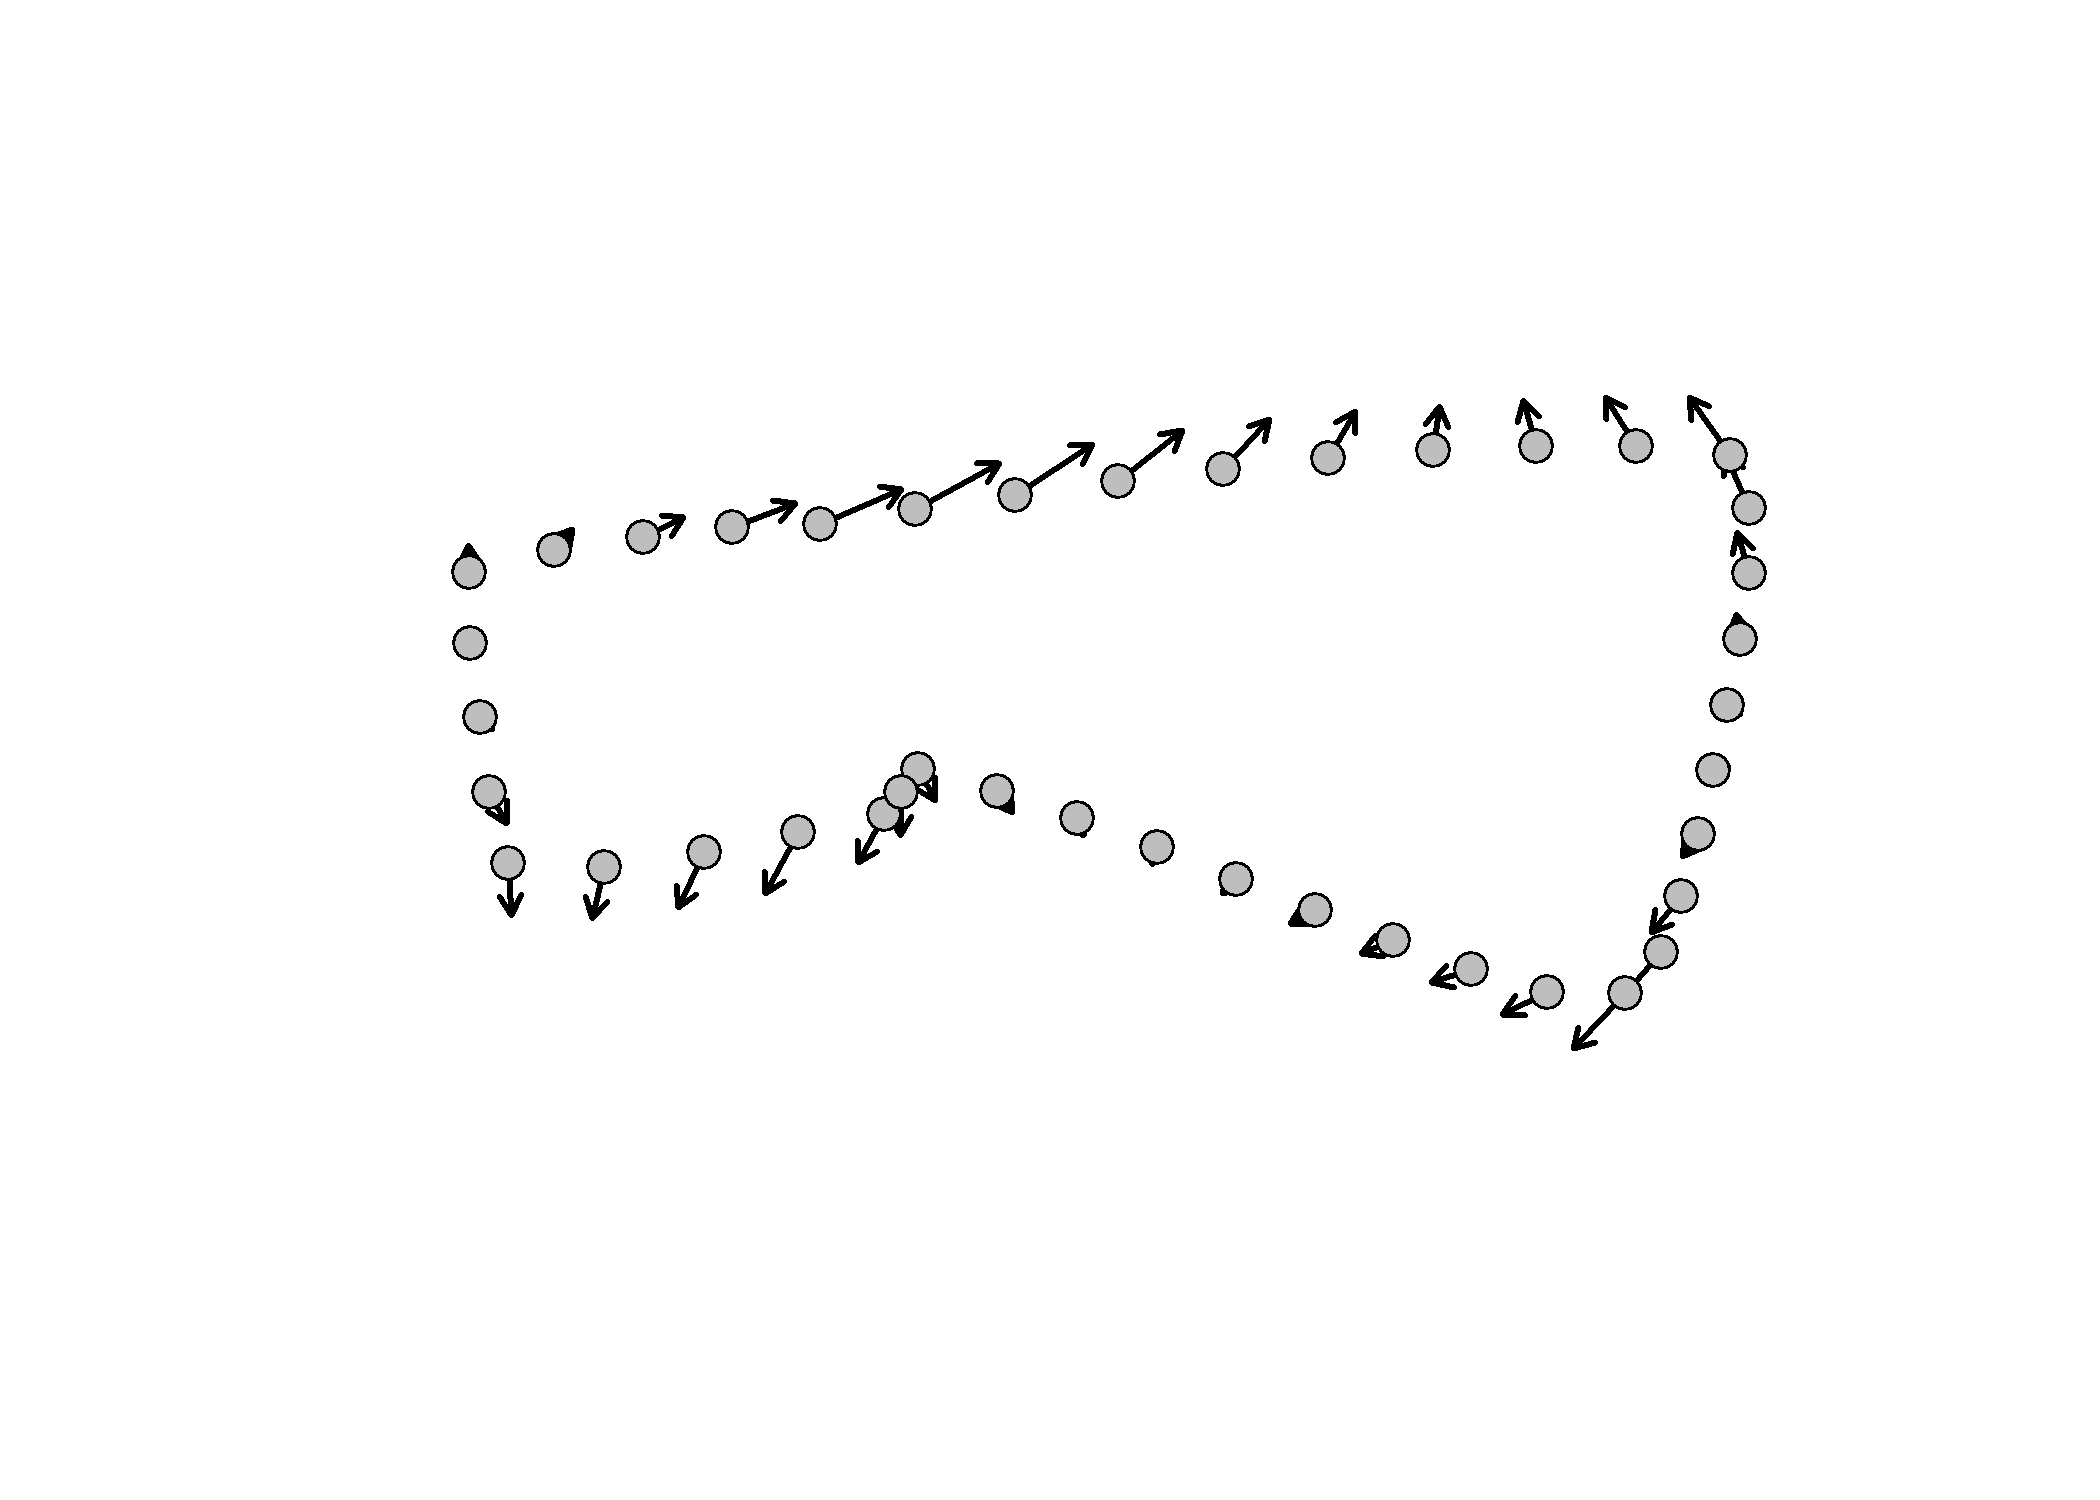
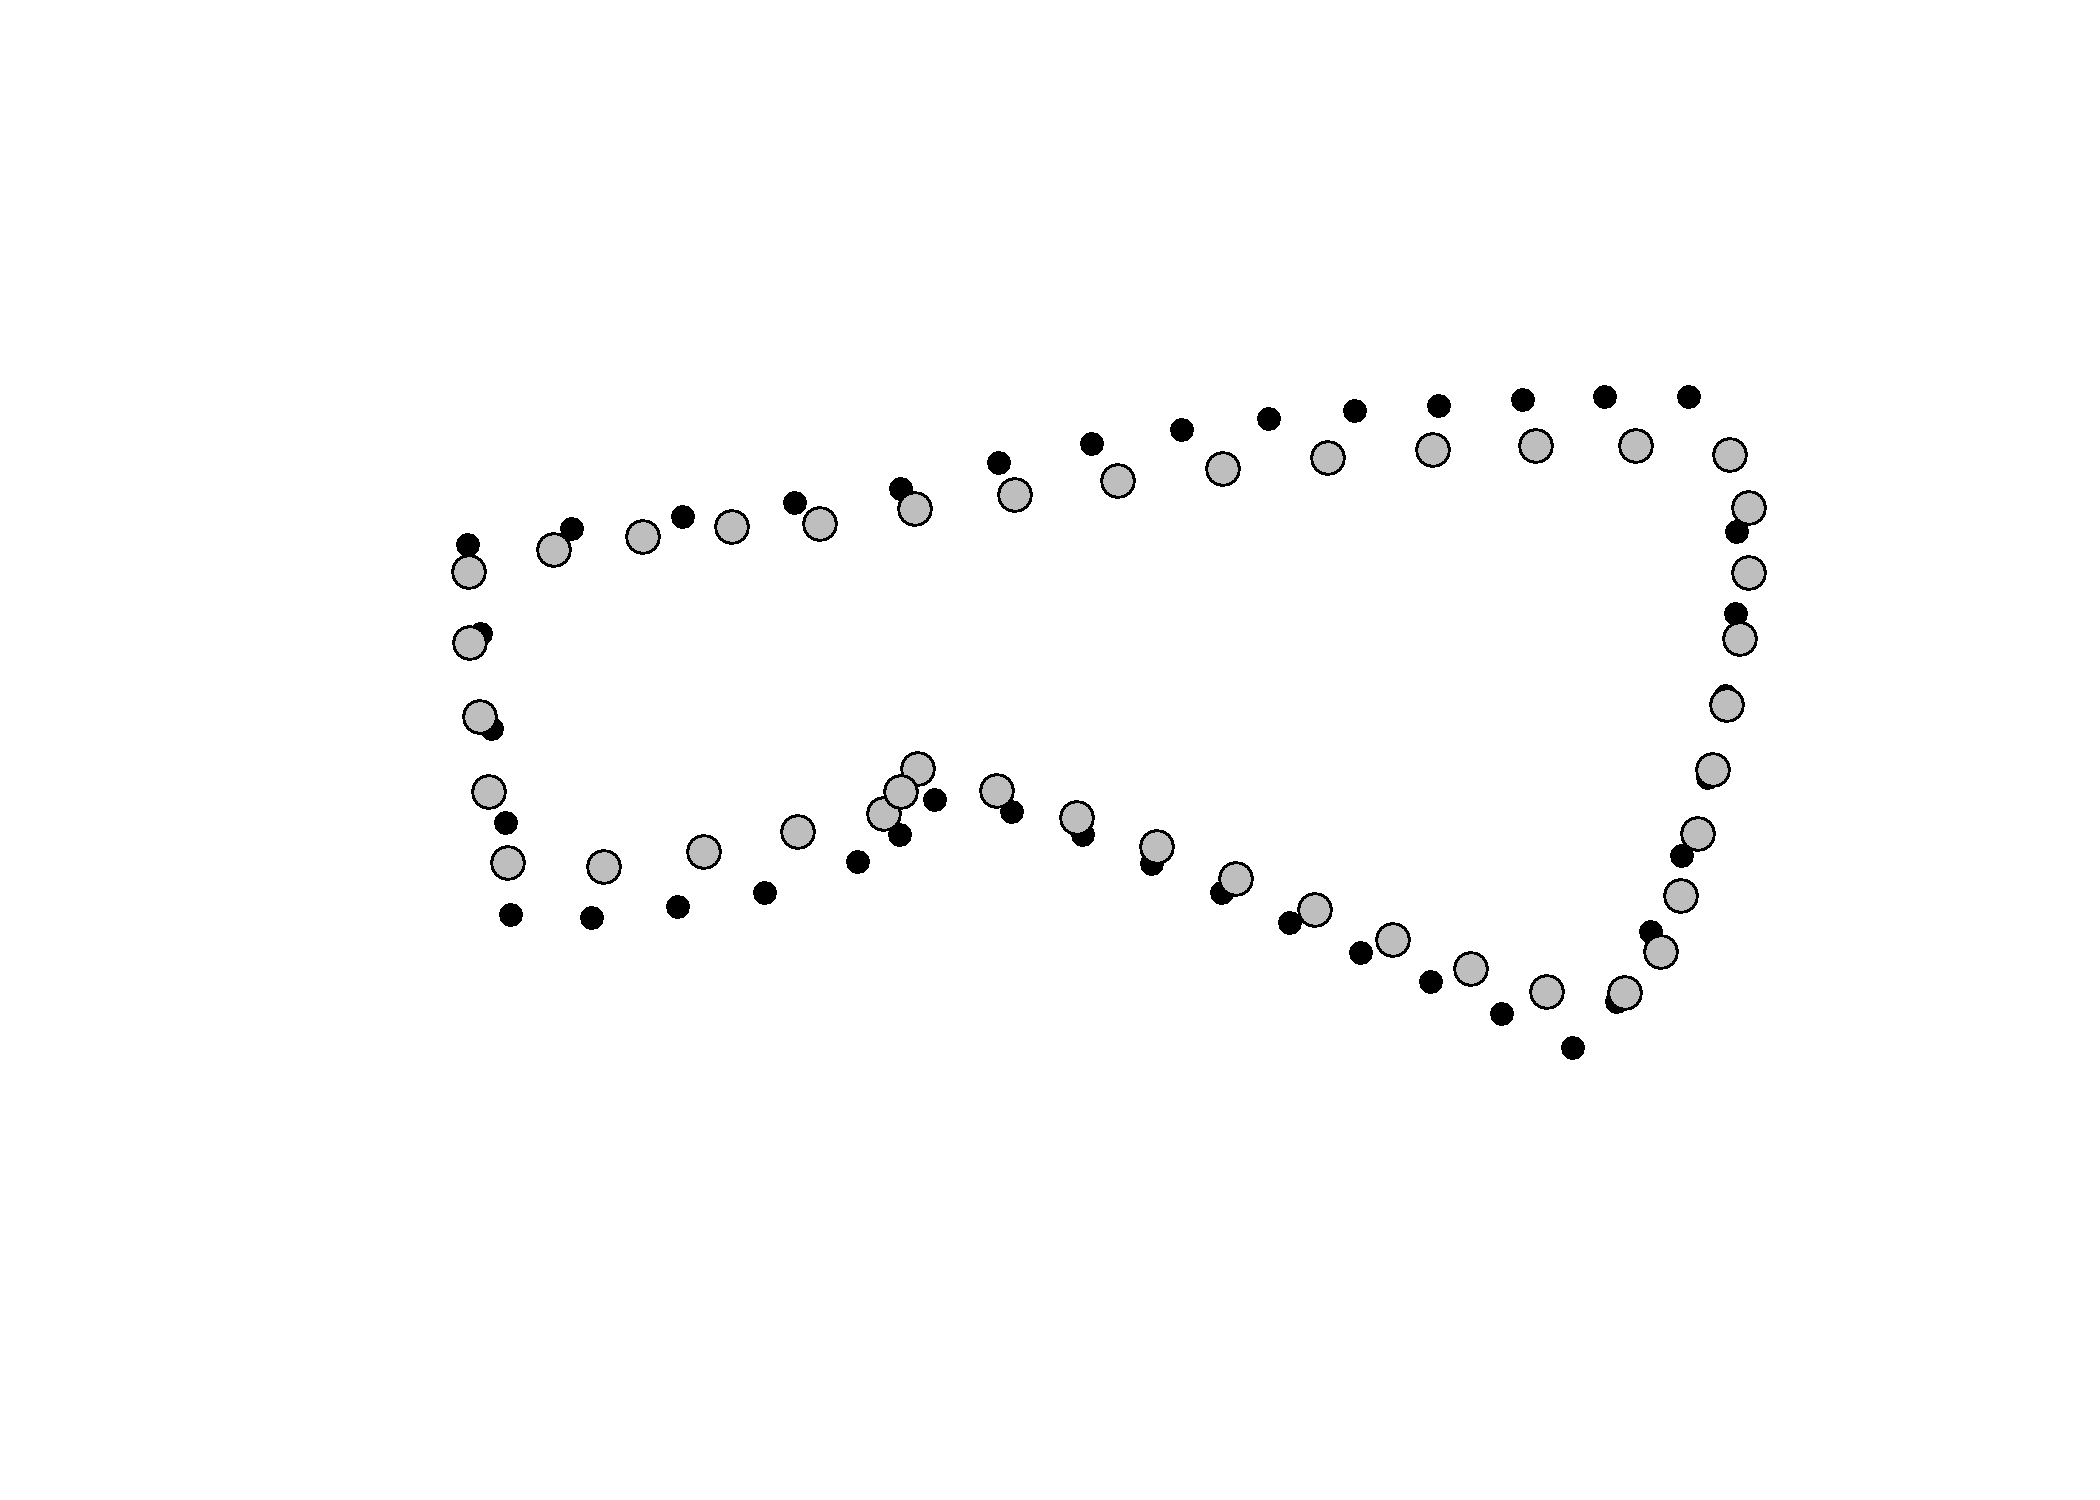
<init colophon>

diff --git a/fta2dgm.md b/fta2dgm.md
@@ -1,13 +1,14 @@
-Supplementary materials for paper: French trade axe morphology differs
-by makers’ mark: A preliminary analysis
+Supplementary materials for paper: French trade axes from the La Belle
+shipwreck demonstrate significant morphological differences by makers’
+mark
 ================
 Robert Z. Selden, Jr.
-02 February, 2021
+19 February, 2021
 
 ## Load packages
 
 ``` r
-# devtools::install_github("geomorphR/geomorph", ref = "Stable", build_vignettes = TRUE)
+#devtools::install_github("geomorphR/geomorph", ref = "Stable", build_vignettes = TRUE)
 library(here)
 ```
 
@@ -41,12 +42,12 @@ library(tidyverse)
 library(wesanderson)
 ```
 
-## Generalized Procrustes Analysis
+## Generalised Procrustes Analysis
 
 Landmark data were aligned to a global coordinate system (Kendall 1981,
-1984; Slice 2001), achieved through generalized Procrustes
-superimposition (Rohlf and Slice 1990) performed in R 4.0.2 (R Core
-Development Team, 2020) using the `geomorph` library v. 3.3.1 (Adams et
+1984; Slice 2001), achieved through generalised Procrustes
+superimposition (Rohlf and Slice 1990) performed in R 4.0.4 (R Core
+Development Team, 2020) using the `geomorph` library v. 3.3.2 (Adams et
 al. 2017; Adams and Otárola-Castillo 2013). Procrustes superimposition
 translates, scales, and rotates the coordinate data to allow for
 comparisons among objects (Gower 1975; Rohlf and Slice 1990). The
@@ -175,17 +176,17 @@ knitr::include_graphics('./figures/pca.warp.jpg')
 
 ## Test hypothesis
 
-*Hypothesis: There are morphological differences in French trade axes
-that bear an asterisk or DG makers’ marks.*
+*Hypothesis: There are morphological differences between French trade
+axes that bear an asterisk or DG makers’ marks.*
 
 ``` r
-## size as a function of mark ----
+# size as a function of mark ----
 fit.size.mark <- procD.lm(size ~ mark, 
                           data = gdf, 
                           print.progress = FALSE, 
                           iter = 9999)
 
-# differences in size by mark?
+## differences in size by mark?
 anova(fit.size.mark)
 ```
 
@@ -207,7 +208,7 @@ anova(fit.size.mark)
     ## Call: procD.lm(f1 = size ~ mark, iter = 9999, data = gdf, print.progress = FALSE)
 
 ``` r
-## shape as a function of mark ----
+# shape as a function of mark ----
 fit.shape.mark <- procD.lm(shape ~ mark, 
                            data = gdf, 
                            print.progress = FALSE, 
@@ -234,6 +235,44 @@ anova(fit.shape.mark)
     ## 
     ## Call: procD.lm(f1 = shape ~ mark, iter = 9999, data = gdf, print.progress = FALSE)
 
+### Morphological disparity
+
+``` r
+# does one of the groups display greater shape variation among individuals 
+# relative to the other group?
+morphol.disparity(shape ~ mark, 
+                  groups = qdata$mark, 
+                  data = gdf, 
+                  print.progress = FALSE, 
+                  iter = 9999)
+```
+
+    ## 
+    ## Call:
+    ## morphol.disparity(f1 = shape ~ mark, groups = qdata$mark, iter = 9999,  
+    ##     data = gdf, print.progress = FALSE) 
+    ## 
+    ## 
+    ## 
+    ## Randomized Residual Permutation Procedure Used
+    ## 10000 Permutations
+    ## 
+    ## Procrustes variances for defined groups
+    ##     asterisk           DG 
+    ## 0.0007308991 0.0019748264 
+    ## 
+    ## 
+    ## Pairwise absolute differences between variances
+    ##             asterisk          DG
+    ## asterisk 0.000000000 0.001243927
+    ## DG       0.001243927 0.000000000
+    ## 
+    ## 
+    ## P-Values
+    ##          asterisk     DG
+    ## asterisk   1.0000 0.0242
+    ## DG         0.0242 1.0000
+
 ### Mean shapes
 
 ``` r
@@ -250,26 +289,168 @@ names(new.coords)
 mean <- lapply(new.coords, mshape)
 
 # plot mean shapes
-plot(mean$asterisk) # mean shape of axe with asterisk mark
+plot(mean$asterisk) # mean shape for axes with asterisk mark
 ```
 
 <img src="fta2dgm_files/figure-gfm/def.mod.2-1.png" width="100%" />
 
 ``` r
-plot(mean$DG) # mean shape of axe with DG mark
+plot(mean$DG) # mean shape for axes with DG mark
 ```
 
 <img src="fta2dgm_files/figure-gfm/def.mod.2-2.png" width="100%" />
 
 ``` r
-# comparison plot of asterisk (gray) vs DG (linear vector)
+# comparison plot of French trade axes bearing asterisk (gray) 
+# and DG (black) marks
 plotRefToTarget(mean$asterisk, 
                 mean$DG, 
-                method = "vector",
+                method = "point",
                 mag = 2)
 ```
 
 <img src="fta2dgm_files/figure-gfm/def.mod.2-3.png" width="100%" />
+
+### Colophon
+
+This version of the analysis was generated on 2021-02-19 02:49:16 using
+the following computational environment and dependencies:
+
+``` r
+# what R packages and versions were used?
+if ("devtools" %in% installed.packages()) devtools::session_info()
+```
+
+    ## - Session info ---------------------------------------------------------------
+    ##  setting  value                       
+    ##  version  R version 4.0.4 (2021-02-15)
+    ##  os       Windows 10 x64              
+    ##  system   x86_64, mingw32             
+    ##  ui       RTerm                       
+    ##  language (EN)                        
+    ##  collate  English_United States.1252  
+    ##  ctype    English_United States.1252  
+    ##  tz       America/Chicago             
+    ##  date     2021-02-19                  
+    ## 
+    ## - Packages -------------------------------------------------------------------
+    ##  package          * version  date       lib source                             
+    ##  ape                5.4-1    2020-08-13 [1] CRAN (R 4.0.2)                     
+    ##  assertthat         0.2.1    2019-03-21 [1] CRAN (R 4.0.2)                     
+    ##  backports          1.2.1    2020-12-09 [1] CRAN (R 4.0.3)                     
+    ##  bezier             1.1.2    2018-12-14 [1] CRAN (R 4.0.3)                     
+    ##  brew               1.0-6    2011-04-13 [1] CRAN (R 4.0.0)                     
+    ##  broom              0.7.4    2021-01-29 [1] CRAN (R 4.0.3)                     
+    ##  cachem             1.0.3    2021-02-04 [1] CRAN (R 4.0.3)                     
+    ##  callr              3.5.1    2020-10-13 [1] CRAN (R 4.0.3)                     
+    ##  cellranger         1.1.0    2016-07-27 [1] CRAN (R 4.0.2)                     
+    ##  cli                2.3.0    2021-01-31 [1] CRAN (R 4.0.3)                     
+    ##  colorspace         2.0-0    2020-11-11 [1] CRAN (R 4.0.3)                     
+    ##  crayon             1.4.1    2021-02-08 [1] CRAN (R 4.0.3)                     
+    ##  crosstalk          1.1.1    2021-01-12 [1] CRAN (R 4.0.3)                     
+    ##  DBI                1.1.1    2021-01-15 [1] CRAN (R 4.0.3)                     
+    ##  dbplyr             2.1.0    2021-02-03 [1] CRAN (R 4.0.3)                     
+    ##  desc               1.2.0    2018-05-01 [1] CRAN (R 4.0.2)                     
+    ##  devtools           2.3.2    2020-09-18 [1] CRAN (R 4.0.2)                     
+    ##  digest             0.6.27   2020-10-24 [1] CRAN (R 4.0.3)                     
+    ##  dplyr            * 1.0.4    2021-02-02 [1] CRAN (R 4.0.3)                     
+    ##  ellipsis           0.3.1    2020-05-15 [1] CRAN (R 4.0.2)                     
+    ##  evaluate           0.14     2019-05-28 [1] CRAN (R 4.0.2)                     
+    ##  farver             2.0.3    2020-01-16 [1] CRAN (R 4.0.2)                     
+    ##  fastmap            1.1.0    2021-01-25 [1] CRAN (R 4.0.3)                     
+    ##  forcats          * 0.5.1    2021-01-27 [1] CRAN (R 4.0.3)                     
+    ##  fs                 1.5.0    2020-07-31 [1] CRAN (R 4.0.2)                     
+    ##  generics           0.1.0    2020-10-31 [1] CRAN (R 4.0.3)                     
+    ##  geomorph         * 3.3.2    2021-01-23 [1] Github (geomorphR/geomorph@788ab5b)
+    ##  ggplot2          * 3.3.3    2020-12-30 [1] CRAN (R 4.0.3)                     
+    ##  glue               1.4.2    2020-08-27 [1] CRAN (R 4.0.2)                     
+    ##  gtable             0.3.0    2019-03-25 [1] CRAN (R 4.0.2)                     
+    ##  haven              2.3.1    2020-06-01 [1] CRAN (R 4.0.2)                     
+    ##  here             * 1.0.1    2020-12-13 [1] CRAN (R 4.0.3)                     
+    ##  highr              0.8      2019-03-20 [1] CRAN (R 4.0.2)                     
+    ##  hms                1.0.0    2021-01-13 [1] CRAN (R 4.0.3)                     
+    ##  htmltools          0.5.1.1  2021-01-22 [1] CRAN (R 4.0.3)                     
+    ##  htmlwidgets        1.5.3    2020-12-10 [1] CRAN (R 4.0.3)                     
+    ##  httpuv             1.5.5    2021-01-13 [1] CRAN (R 4.0.3)                     
+    ##  httr               1.4.2    2020-07-20 [1] CRAN (R 4.0.2)                     
+    ##  jpeg               0.1-8.1  2019-10-24 [1] CRAN (R 4.0.0)                     
+    ##  jsonlite           1.7.2    2020-12-09 [1] CRAN (R 4.0.3)                     
+    ##  knitr              1.31     2021-01-27 [1] CRAN (R 4.0.3)                     
+    ##  labeling           0.4.2    2020-10-20 [1] CRAN (R 4.0.3)                     
+    ##  later              1.1.0.1  2020-06-05 [1] CRAN (R 4.0.2)                     
+    ##  lattice            0.20-41  2020-04-02 [2] CRAN (R 4.0.4)                     
+    ##  lifecycle          1.0.0    2021-02-15 [1] CRAN (R 4.0.4)                     
+    ##  lubridate          1.7.9.2  2020-11-13 [1] CRAN (R 4.0.3)                     
+    ##  magrittr           2.0.1    2020-11-17 [1] CRAN (R 4.0.3)                     
+    ##  manipulateWidget   0.10.1   2020-02-24 [1] CRAN (R 4.0.2)                     
+    ##  MASS               7.3-53.1 2021-02-12 [1] CRAN (R 4.0.4)                     
+    ##  memoise            2.0.0    2021-01-26 [1] CRAN (R 4.0.3)                     
+    ##  mime               0.10     2021-02-13 [1] CRAN (R 4.0.4)                     
+    ##  miniUI             0.1.1.1  2018-05-18 [1] CRAN (R 4.0.2)                     
+    ##  modelr             0.1.8    2020-05-19 [1] CRAN (R 4.0.2)                     
+    ##  munsell            0.5.0    2018-06-12 [1] CRAN (R 4.0.2)                     
+    ##  nlme               3.1-152  2021-02-04 [2] CRAN (R 4.0.4)                     
+    ##  pillar             1.4.7    2020-11-20 [1] CRAN (R 4.0.3)                     
+    ##  pkgbuild           1.2.0    2020-12-15 [1] CRAN (R 4.0.3)                     
+    ##  pkgconfig          2.0.3    2019-09-22 [1] CRAN (R 4.0.2)                     
+    ##  pkgload            1.1.0    2020-05-29 [1] CRAN (R 4.0.2)                     
+    ##  png                0.1-7    2013-12-03 [1] CRAN (R 4.0.0)                     
+    ##  prettyunits        1.1.1    2020-01-24 [1] CRAN (R 4.0.2)                     
+    ##  processx           3.4.5    2020-11-30 [1] CRAN (R 4.0.3)                     
+    ##  promises           1.2.0.1  2021-02-11 [1] CRAN (R 4.0.3)                     
+    ##  ps                 1.5.0    2020-12-05 [1] CRAN (R 4.0.3)                     
+    ##  purrr            * 0.3.4    2020-04-17 [1] CRAN (R 4.0.2)                     
+    ##  R6                 2.5.0    2020-10-28 [1] CRAN (R 4.0.3)                     
+    ##  Rcpp               1.0.6    2021-01-15 [1] CRAN (R 4.0.3)                     
+    ##  readr            * 1.4.0    2020-10-05 [1] CRAN (R 4.0.3)                     
+    ##  readxl             1.3.1    2019-03-13 [1] CRAN (R 4.0.2)                     
+    ##  remotes            2.2.0    2020-07-21 [1] CRAN (R 4.0.2)                     
+    ##  reprex             1.0.0    2021-01-27 [1] CRAN (R 4.0.3)                     
+    ##  rgl              * 0.105.13 2021-02-15 [1] CRAN (R 4.0.4)                     
+    ##  rjson              0.2.20   2018-06-08 [1] CRAN (R 4.0.0)                     
+    ##  rlang              0.4.10   2020-12-30 [1] CRAN (R 4.0.3)                     
+    ##  rmarkdown          2.7      2021-02-19 [1] CRAN (R 4.0.4)                     
+    ##  Rook               1.1-1    2014-10-20 [1] CRAN (R 4.0.3)                     
+    ##  rprojroot          2.0.2    2020-11-15 [1] CRAN (R 4.0.3)                     
+    ##  RRPP             * 0.6.2    2021-01-11 [1] CRAN (R 4.0.3)                     
+    ##  rstudioapi         0.13     2020-11-12 [1] CRAN (R 4.0.3)                     
+    ##  rvest              0.3.6    2020-07-25 [1] CRAN (R 4.0.2)                     
+    ##  scales             1.1.1    2020-05-11 [1] CRAN (R 4.0.2)                     
+    ##  sessioninfo        1.1.1    2018-11-05 [1] CRAN (R 4.0.2)                     
+    ##  shiny              1.6.0    2021-01-25 [1] CRAN (R 4.0.3)                     
+    ##  StereoMorph      * 1.6.3    2019-11-30 [1] CRAN (R 4.0.3)                     
+    ##  stringi            1.5.3    2020-09-09 [1] CRAN (R 4.0.2)                     
+    ##  stringr          * 1.4.0    2019-02-10 [1] CRAN (R 4.0.2)                     
+    ##  svgViewR           1.4.1    2020-10-03 [1] CRAN (R 4.0.3)                     
+    ##  testthat           3.0.2    2021-02-14 [1] CRAN (R 4.0.4)                     
+    ##  tibble           * 3.0.6    2021-01-29 [1] CRAN (R 4.0.3)                     
+    ##  tidyr            * 1.1.2    2020-08-27 [1] CRAN (R 4.0.2)                     
+    ##  tidyselect         1.1.0    2020-05-11 [1] CRAN (R 4.0.2)                     
+    ##  tidyverse        * 1.3.0    2019-11-21 [1] CRAN (R 4.0.2)                     
+    ##  tiff               0.1-6    2020-11-17 [1] CRAN (R 4.0.3)                     
+    ##  usethis            2.0.1    2021-02-10 [1] CRAN (R 4.0.3)                     
+    ##  vctrs              0.3.6    2020-12-17 [1] CRAN (R 4.0.3)                     
+    ##  webshot            0.5.2    2019-11-22 [1] CRAN (R 4.0.2)                     
+    ##  wesanderson      * 0.3.6    2018-04-20 [1] CRAN (R 4.0.2)                     
+    ##  withr              2.4.1    2021-01-26 [1] CRAN (R 4.0.3)                     
+    ##  xfun               0.21     2021-02-10 [1] CRAN (R 4.0.3)                     
+    ##  xml2               1.3.2    2020-04-23 [1] CRAN (R 4.0.2)                     
+    ##  xtable             1.8-4    2019-04-21 [1] CRAN (R 4.0.2)                     
+    ##  yaml               2.2.1    2020-02-01 [1] CRAN (R 4.0.0)                     
+    ## 
+    ## [1] C:/Users/seldenjrz/Documents/R/win-library/4.0
+    ## [2] C:/Program Files/R/R-4.0.4/library
+
+Current Git commit details are:
+
+``` r
+# where can I find this commit? 
+if ("git2r" %in% installed.packages() & git2r::in_repository(path = ".")) git2r::repository(here::here())  
+```
+
+    ## Local:    main D:/github/fta3dgm
+    ## Remote:   main @ origin (https://github.com/aksel-blaise/fta3dgm)
+    ## Head:     [109ce42] 2021-02-02: <clean>
 
 ## References cited
 
